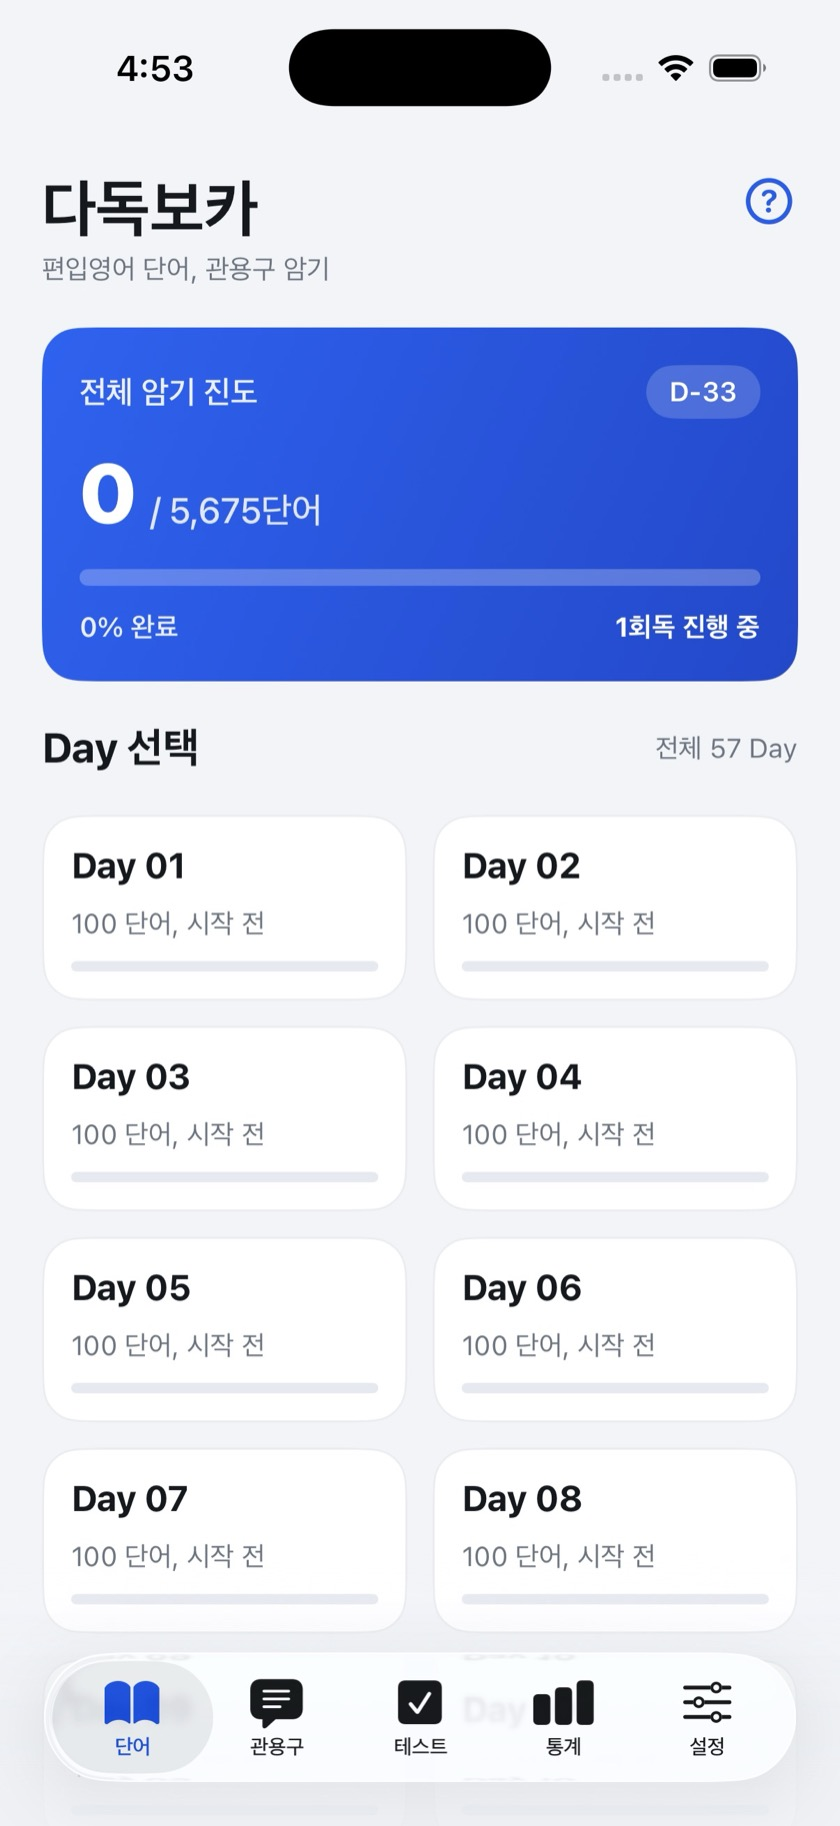
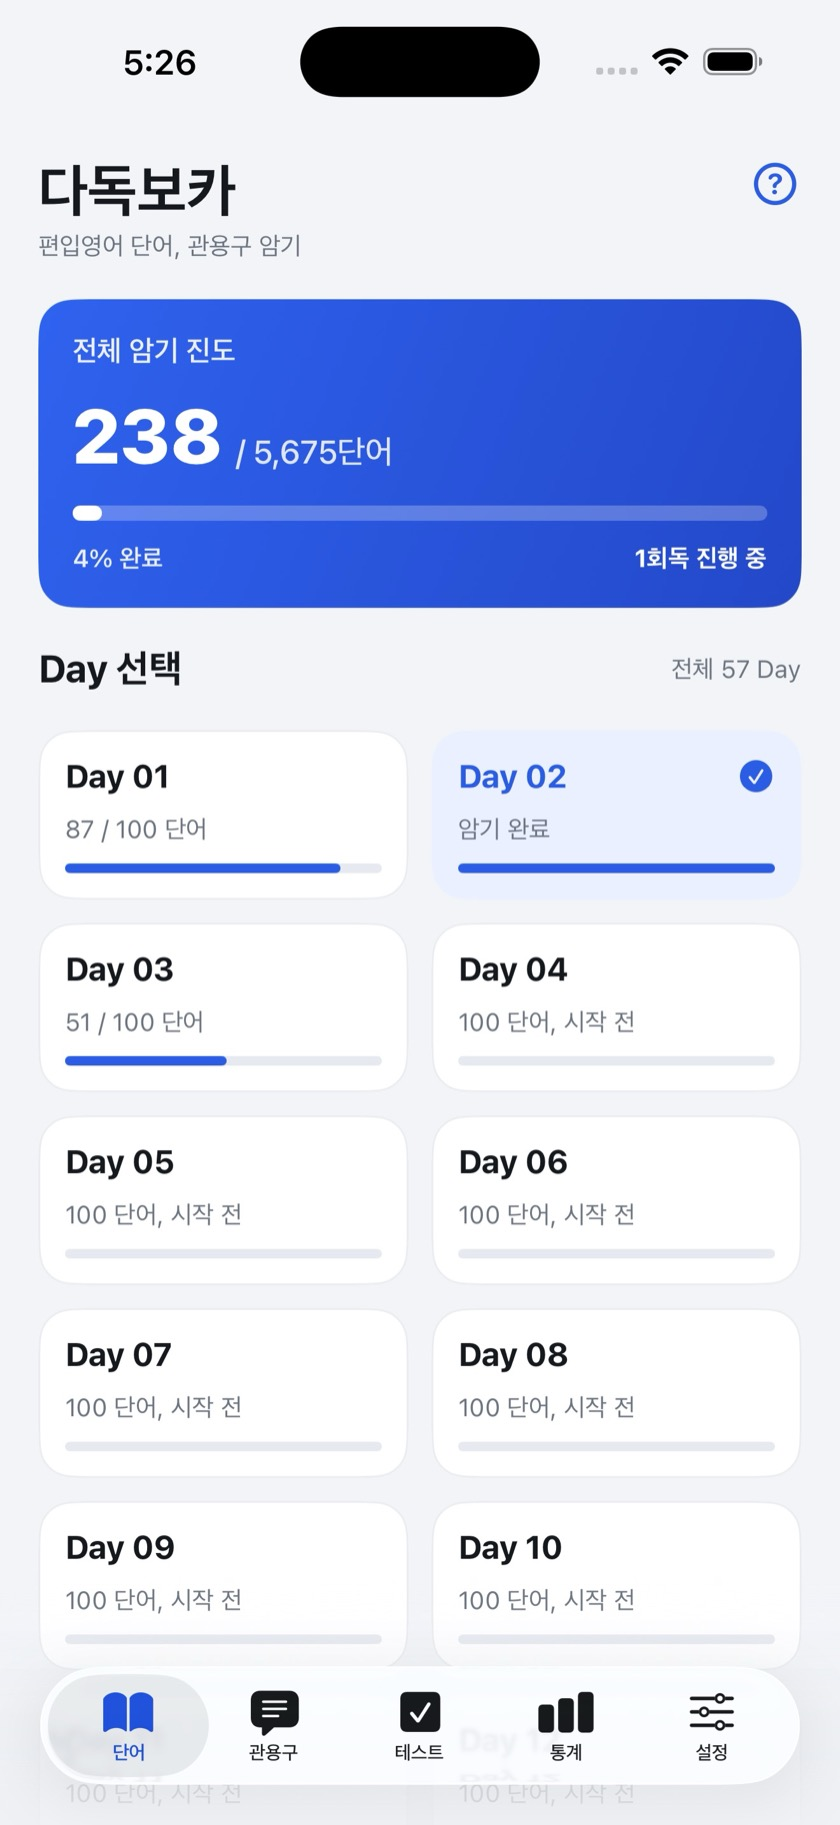
Update product shot to progress-filled home screen
238/5,675 words with mixed Day states (in-progress, complete,
untouched) so the app reads as alive rather than a fresh install.
Captured on iPhone 17 Pro Max, so the image height attr shifts 1px.

diff --git a/index.html b/index.html
@@ -514,7 +514,7 @@
           </div>
           <figure class="phone">
             <img class="screen-img" src="assets/dadokvoca-home.jpg"
-              width="840" height="1826"
+              width="840" height="1825"
               alt="다독보카 home screen: a 5,675-word, 57-day study plan with overall memorization progress and a D-day countdown"
               loading="lazy" decoding="async">
           </figure>